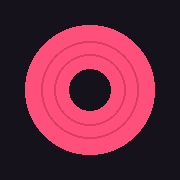
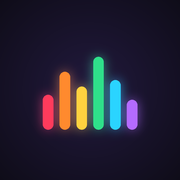
Nowa nazwa: Disco Domówka, kody kart DD1, nowa ikona
Aplikacja czyta kody DD1;… (i starsze PRYWATKA2;…).

Claude-Session: https://claude.ai/code/session_01XDfZXsid2DgeZWf6MTuhPG

diff --git a/app.js b/app.js
@@ -1,8 +1,8 @@
-/* Prywatka – aplikacja (YouTube w ukrytym odtwarzaczu, kula disco, skaner QR) */
+/* Disco Domówka – aplikacja (YouTube w ukrytym odtwarzaczu, kula disco, skaner QR) */
 'use strict';
-// kod karty: PRYWATKA2;<ID YouTube>;<start w s>[;<rok>]  – rok zapisany jako (rok-1900) w systemie 36 (np. 1975 → „23”),
+// kod karty: DD1;<ID YouTube>;<start w s>[;<rok>]  (starszy format PRYWATKA2;… też działa)  – rok zapisany jako (rok-1900) w systemie 36 (np. 1975 → „23”),
 // żeby zwykły aparat w telefonie nie zdradzał go wprost
-const QR_RE = /^PRYWATKA2;([A-Za-z0-9_-]{11});(\d{1,4})(?:;([0-9A-Za-z]{1,3}))?$/;
+const QR_RE = /^(?:DD1|PRYWATKA2);([A-Za-z0-9_-]{11});(\d{1,4})(?:;([0-9A-Za-z]{1,3}))?$/;
 const decYear = s => { const y = s ? parseInt(s, 36) + 1900 : NaN; return y > 1900 && y < 2100 ? y : null; };
 const encYear = y => (y - 1900).toString(36).toUpperCase();
 const $ = s => document.querySelector(s);
@@ -102,7 +102,7 @@ const fmtCount = n => S.theme === 'spk' ? '00:' + String(n).padStart(2, '0') : S
 function neutralMediaSession() {
   if (!('mediaSession' in navigator)) return;
   try {
-    navigator.mediaSession.metadata = new MediaMetadata({ title: 'Prywatka', artist: 'Parkiet czeka!',
+    navigator.mediaSession.metadata = new MediaMetadata({ title: 'Disco Domówka', artist: 'Zgadnij rok!',
       artwork: [{ src: 'icon-512.png', sizes: '512x512', type: 'image/png' }] });
     navigator.mediaSession.setActionHandler('play', () => resume());
     navigator.mediaSession.setActionHandler('pause', () => pause());
@@ -276,11 +276,11 @@ function bind() {
   $('#nextBtn2').onclick = startScan;
   document.querySelectorAll('#themeSeg button').forEach(b => b.onclick = () => applyTheme(b.dataset.v));
   document.querySelectorAll('#lenSeg button').forEach(b => b.onclick = () => { S.len = +b.dataset.v; store.set('len2', S.len); renderLen(); });
-  $('#manualForm').onsubmit = e => { e.preventDefault(); const m = $('#manual').value.trim().match(QR_RE); if (m) { $('#setDlg').close(); play(m[1], +m[2], true, decYear(m[3])); } else toast('Zły format. Przykład: PRYWATKA2;BSTsnWoslP4;149'); };
-  $('#linkForm').onsubmit = e => { e.preventDefault(); const id = ytId($('#link').value); if (!id) return toast('Nie rozpoznaję linku YouTube'); const y = +$('#linkYear').value; showQR(`PRYWATKA2;${id};${+$('#linkSec').value || 0}` + (y > 1900 && y < 2100 ? ';' + encYear(y) : '')); };
+  $('#manualForm').onsubmit = e => { e.preventDefault(); const m = $('#manual').value.trim().match(QR_RE); if (m) { $('#setDlg').close(); play(m[1], +m[2], true, decYear(m[3])); } else toast('Zły format. Przykład: DD1;BSTsnWoslP4;149;23'); };
+  $('#linkForm').onsubmit = e => { e.preventDefault(); const id = ytId($('#link').value); if (!id) return toast('Nie rozpoznaję linku YouTube'); const y = +$('#linkYear').value; showQR(`DD1;${id};${+$('#linkSec').value || 0}` + (y > 1900 && y < 2100 ? ';' + encYear(y) : '')); };
 }
 
 if ('serviceWorker' in navigator) navigator.serviceWorker.register('sw.js').catch(() => {});
 bind(); renderLen(); buildDecor(); setToggle('playing'); show('vHome'); applyTheme(S.theme); keepAwake(); trackBall();
-$('#manual').value = 'PRYWATKA2;BSTsnWoslP4;149;' + encYear(1975);
+$('#manual').value = 'DD1;BSTsnWoslP4;149;' + encYear(1975);
 document.fonts?.ready.then(() => requestAnimationFrame(placeBall));

diff --git a/style.css b/style.css
@@ -25,7 +25,8 @@ svg{display:block}
 .view{position:fixed;inset:0;z-index:2;display:flex;flex-direction:column;padding:calc(14px + env(safe-area-inset-top)) 22px calc(22px + env(safe-area-inset-bottom));max-width:520px;margin:0 auto;animation:fadein .35s ease both}
 @keyframes fadein{from{opacity:0;transform:translateY(8px)}to{opacity:1;transform:none}}
 .top{display:flex;align-items:center;justify-content:space-between;gap:10px;min-height:48px}
-.logo{font-family:'Unbounded',sans-serif;font-weight:800;font-size:22px;letter-spacing:-.3px}
+.logo{font-family:'Unbounded',sans-serif;font-weight:800;font-size:20px;letter-spacing:-.3px;white-space:nowrap}
+.logo .lw{background:linear-gradient(90deg,#ff7cc0,#b8a6ff);-webkit-background-clip:text;background-clip:text;color:transparent}
 .ttl{font-family:'Unbounded',sans-serif;font-weight:700;font-size:14px;letter-spacing:.6px;color:#cfc6ff}
 .sp{width:44px}
 .topR{display:flex;gap:10px;align-items:center}
@@ -177,14 +178,7 @@ body.theme-spk{--bg1:#1a1430;--bg2:#0d0b18;--bg3:#07060c;--text:#f4f3fb;--mut:#b
 .theme-spk .t-disco{display:none}
 .theme-spk .t-spk{display:inline}
 .theme-spk .logo{font-family:'Rubik',sans-serif;font-weight:900;font-size:17px;letter-spacing:3px;text-transform:uppercase}
-.theme-spk .logo span:nth-child(1),.theme-spk .logo span:nth-child(8){color:#ff3b5c}
-.theme-spk .logo span:nth-child(2){color:#ff8a2e}
-.theme-spk .logo span:nth-child(3){color:#ffd23f}
-.theme-spk .logo span:nth-child(4){color:#2fe08a}
-.theme-spk .logo span:nth-child(5){color:#2ad4ff}
-.theme-spk .logo span:nth-child(6){color:#3d7bff}
-.theme-spk .logo span:nth-child(7){color:#b46bff}
-.theme-spk .logo span{text-shadow:0 0 12px currentColor}
+.theme-spk .logo .lw{background:linear-gradient(90deg,#ff3b5c,#ffd23f 30%,#2fe08a 55%,#2ad4ff 75%,#b46bff);-webkit-background-clip:text;background-clip:text;color:transparent}
 .theme-spk .ttl{font-family:'Share Tech Mono',monospace;font-weight:400;font-size:15px;letter-spacing:2px;text-transform:uppercase;color:#a9a4c4}
 .theme-spk .icon{border-radius:13px;border-color:#2c2a3a;background:linear-gradient(180deg,#221f2e,#15131d)}
 .theme-spk .stage.play .slot{width:calc(var(--ball) * .92);height:calc(var(--ball) * .92)}

diff --git a/index.html b/index.html
@@ -6,8 +6,8 @@
 <meta name="theme-color" content="#150e33">
 <meta name="apple-mobile-web-app-capable" content="yes">
 <meta name="apple-mobile-web-app-status-bar-style" content="black-translucent">
-<meta name="apple-mobile-web-app-title" content="Prywatka">
-<title>Prywatka</title>
+<meta name="apple-mobile-web-app-title" content="Disco Domówka">
+<title>Disco Domówka</title>
 <link rel="manifest" href="manifest.webmanifest">
 <link rel="icon" href="icon-192.png">
 <link rel="apple-touch-icon" href="icon-180.png">
@@ -45,7 +45,7 @@
 <!-- START -->
 <section id="vHome" class="view" hidden>
   <header class="top">
-    <div class="logo"><span>P</span><span>r</span><span>y</span><span>w</span><span>a</span><span>t</span><span>k</span><span>a</span></div>
+    <div class="logo">Disco <span class="lw">Domówka</span></div>
     <div class="topR">
       <button class="icon" id="setBtn" aria-label="Ustawienia"><svg viewBox="0 0 24 24" fill="none" stroke="currentColor" stroke-width="1.8" stroke-linecap="round"><path d="M4 7h10M18 7h2M4 17h4M12 17h8"/><circle cx="16" cy="7" r="2"/><circle cx="10" cy="17" r="2"/></svg></button>
     </div>
@@ -130,7 +130,7 @@
   <p class="hint">Masz YouTube Premium? Zaloguj się na youtube.com w tej przeglądarce – wtedy nie będzie reklam.</p>
   <details class="tools">
     <summary>Narzędzia testowe</summary>
-    <form id="manualForm" class="row"><input id="manual" placeholder="PRYWATKA2;ID;sekunda;rok" autocomplete="off"><button>Graj</button></form>
+    <form id="manualForm" class="row"><input id="manual" placeholder="DD1;ID;sekunda;rok" autocomplete="off"><button>Graj</button></form>
     <form id="linkForm" class="row"><input id="link" placeholder="Link YouTube" autocomplete="off"><input id="linkSec" type="number" min="0" value="60" aria-label="Start w sekundach" class="num"><input id="linkYear" type="number" min="1900" max="2099" placeholder="rok" aria-label="Rok wydania" class="num"><button>QR</button></form>
     <div id="qrBox" hidden><div id="qrImg"></div><code id="qrTxt"></code></div>
     <h4>Dziennik</h4><ol id="log"></ol>

diff --git a/sw.js b/sw.js
@@ -1,5 +1,5 @@
-// Prywatka – service worker: pliki aplikacji z pamięci podręcznej, gdy brak sieci; YouTube zawsze z sieci.
-const CACHE = 'prywatka-v8';
+// Disco Domówka – service worker: pliki aplikacji z pamięci podręcznej, gdy brak sieci; YouTube zawsze z sieci.
+const CACHE = 'domowka-v9';
 const FILES = ['./', 'index.html', 'app.js', 'style.css', 'manifest.webmanifest', 'icon-180.png', 'icon-192.png', 'icon-512.png', 'vendor/jsQR.js', 'vendor/qrcode.js', 'ball.js'];
 
 self.addEventListener('install', e => { e.waitUntil(caches.open(CACHE).then(c => c.addAll(FILES))); self.skipWaiting(); });
